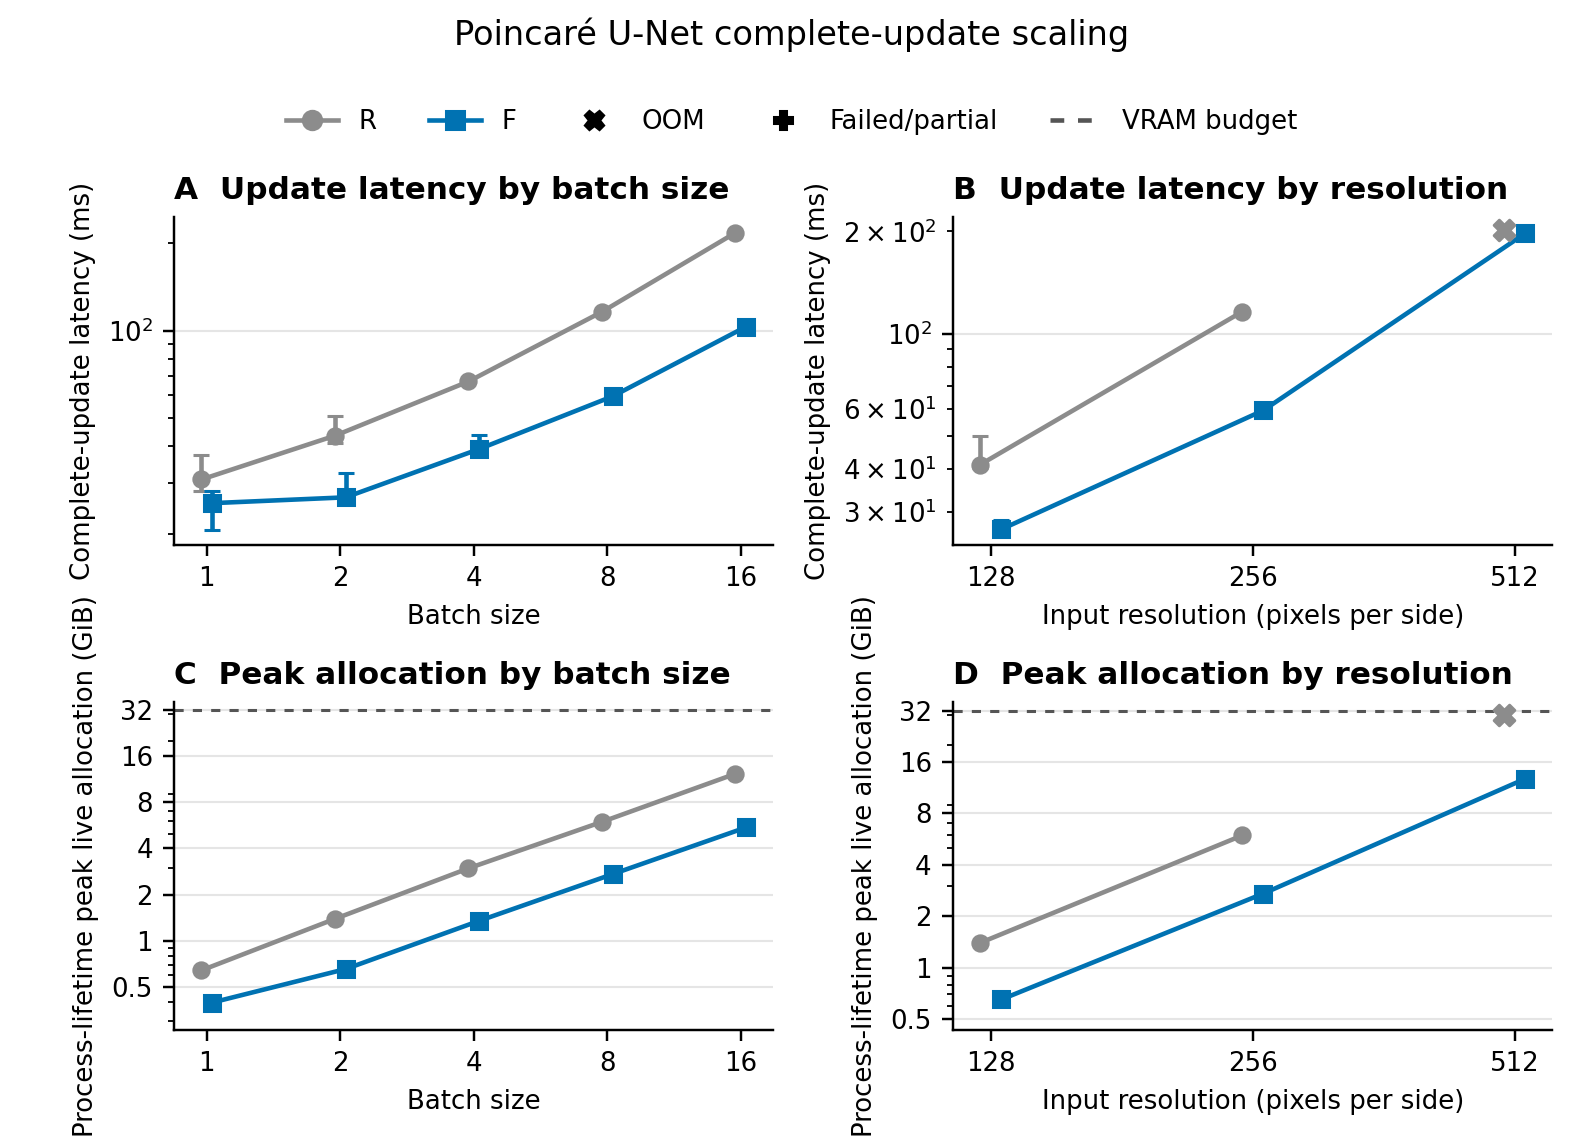
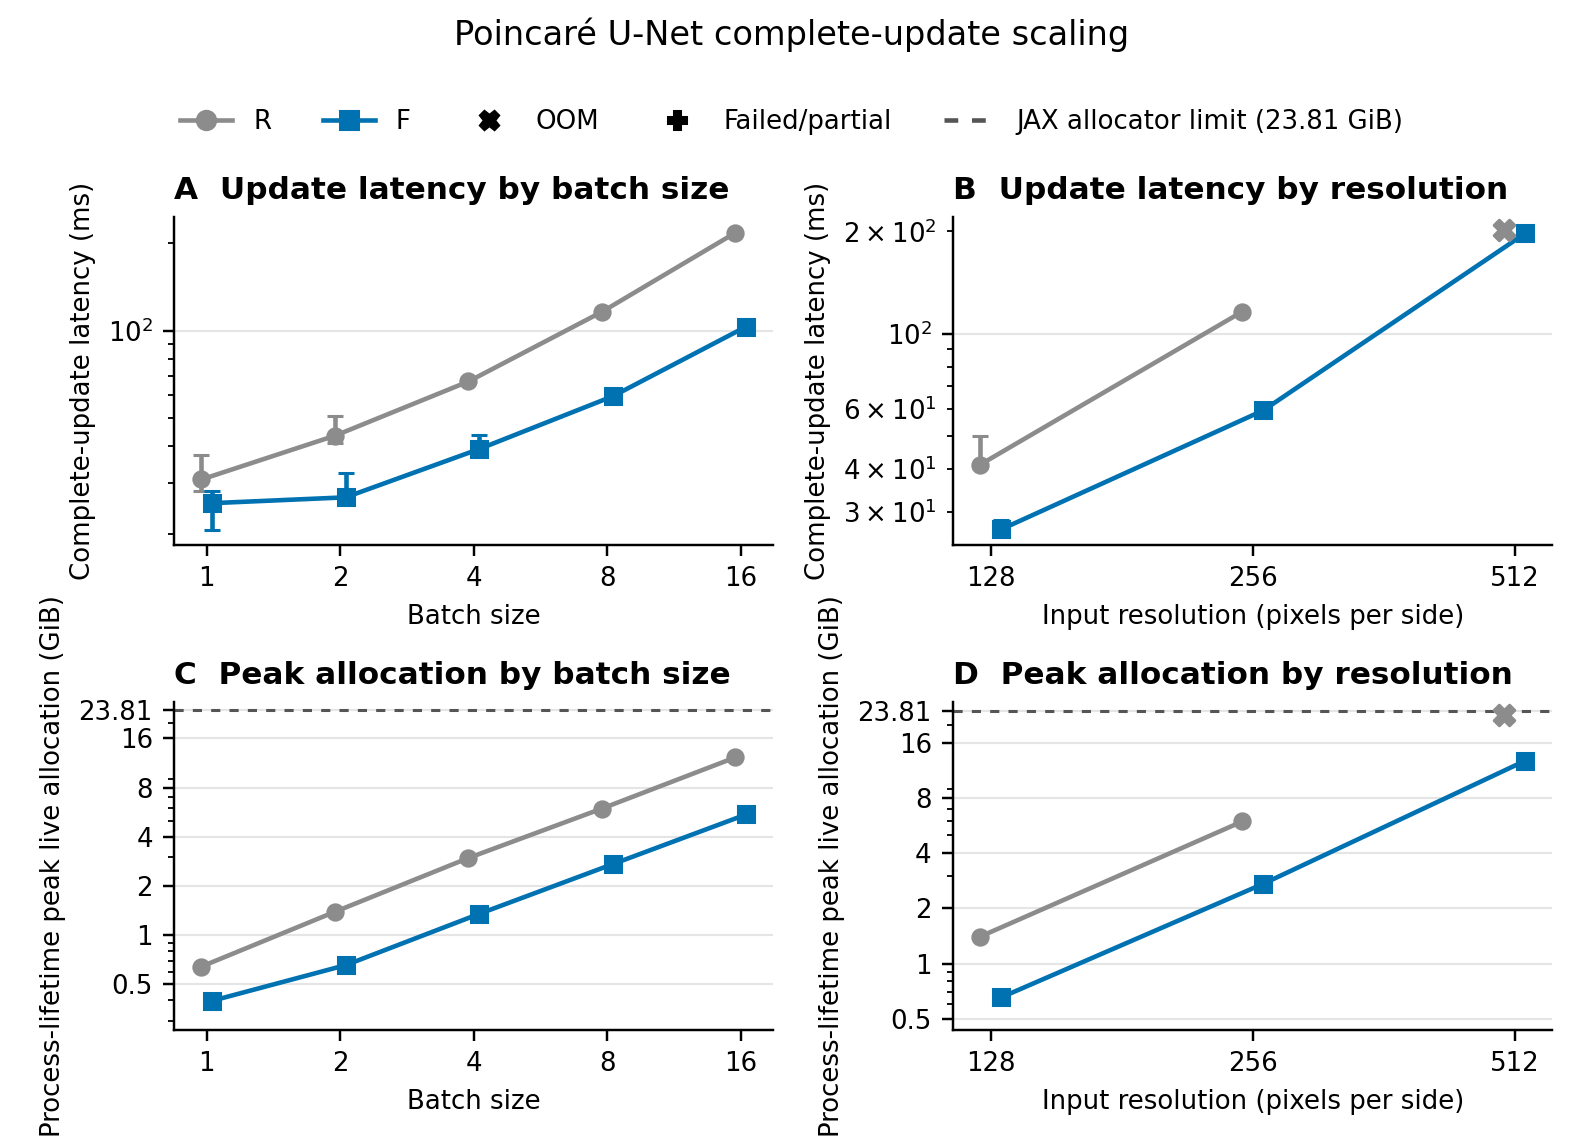
Scope E13 memory reporting to allocator limit

Changed region(s): [[0.0309, 0.5201, 0.9899, 1.0], [0.1237, 0.0918, 0.8971, 0.1224]]

diff --git a/src/poincare_exec/analysis/scaling.py b/src/poincare_exec/analysis/scaling.py
@@ -167,6 +167,7 @@ def _validate_manifest(manifest: Mapping[str, Any]) -> dict[str, dict[str, Any]]
             "sessions",
             "timed_calls_per_session",
             "memory_budget_bytes",
+            "allocator_limit_evidence",
             "precision_contract",
             "protocol_document",
             "benchmark_config",
@@ -254,6 +255,50 @@ def _validate_manifest(manifest: Mapping[str, Any]) -> dict[str, dict[str, Any]]
     if len(workloads) != 7 or observed_shapes != _E13_SHAPES:
         raise ValueError("workloads must be the seven unique shapes in the E13 R/F grid")
     return workloads
+
+
+def _allocator_limit_reference(manifest: Mapping[str, Any]) -> dict[str, Any]:
+    """Validate and return the captured JAX allocator ceiling used in the plot."""
+
+    relative, sha256 = validate_hashed_document(
+        manifest, field="allocator_limit_evidence"
+    )
+    evidence_path = REPOSITORY_ROOT / relative
+    evidence = json.loads(evidence_path.read_text(encoding="utf-8"))
+    if not isinstance(evidence, Mapping):
+        raise ValueError("allocator limit evidence must be a JSON mapping")
+    hardware = evidence.get("hardware")
+    if not isinstance(hardware, Mapping):
+        raise ValueError("allocator limit evidence is missing hardware metadata")
+    allocator_limit_bytes = _optional_int(hardware.get("jax_allocator_bytes_limit"))
+    if allocator_limit_bytes is None or allocator_limit_bytes <= 0:
+        raise ValueError(
+            "allocator limit evidence must contain a positive "
+            "hardware.jax_allocator_bytes_limit"
+        )
+    physical_memory_mib = _optional_int(hardware.get("accelerator_memory_mib"))
+    if physical_memory_mib is None or physical_memory_mib <= 0:
+        raise ValueError(
+            "allocator limit evidence must contain positive "
+            "hardware.accelerator_memory_mib"
+        )
+    nominal_budget_bytes = int(manifest["memory_budget_bytes"])
+    if physical_memory_mib * 1024**2 != nominal_budget_bytes:
+        raise ValueError(
+            "captured physical memory disagrees with the frozen E13 memory budget"
+        )
+    if allocator_limit_bytes > nominal_budget_bytes:
+        raise ValueError("captured allocator limit exceeds physical device memory")
+    return {
+        "kind": "captured_jax_allocator_limit",
+        "bytes": allocator_limit_bytes,
+        "gib": allocator_limit_bytes / 1024**3,
+        "environment_field": "hardware.jax_allocator_bytes_limit",
+        "evidence_path": relative,
+        "evidence_sha256": sha256,
+        "physical_device_memory_bytes": nominal_budget_bytes,
+        "physical_device_memory_gib": nominal_budget_bytes / 1024**3,
+    }
 
 
 def _provenance_contract(
@@ -966,7 +1011,7 @@ def _plot_panel(
     workloads: Mapping[str, Mapping[str, Any]],
     summaries: Mapping[tuple[str, str], Mapping[str, Any]],
     variants: Sequence[str],
-    memory_budget_gib: float,
+    allocator_limit_gib: float,
 ) -> None:
     selected = [item for item in workloads.values() if panel in item["panels"]]
     field = "batch" if panel == "batch" else "resolution"
@@ -1051,22 +1096,28 @@ def _plot_panel(
         axis.set_ylabel("Process-lifetime peak live allocation (GiB)")
         axis.set_yscale("log")
         axis.axhline(
-            memory_budget_gib,
+            allocator_limit_gib,
             color="#555555",
             linestyle=(0, (3, 3)),
             linewidth=1,
-            label="VRAM budget",
+            label=f"JAX allocator limit ({allocator_limit_gib:.2f} GiB)",
         )
         positive_minimum = min(panel_metric_values) if panel_metric_values else 0.25
         positive_maximum = max(panel_metric_values) if panel_metric_values else 1.0
         axis.set_ylim(
             bottom=max(positive_minimum / 1.5, 0.05),
-            top=max(memory_budget_gib * 1.12, positive_maximum * 1.4),
+            top=max(allocator_limit_gib * 1.12, positive_maximum * 1.4),
         )
-        tick_candidates = (0.25, 0.5, 1, 2, 4, 8, 16, 32)
+        tick_candidates = (0.25, 0.5, 1, 2, 4, 8, 16, allocator_limit_gib)
         lower, upper = axis.get_ylim()
         ticks = [value for value in tick_candidates if lower <= value <= upper]
-        axis.set_yticks(ticks, [f"{value:g}" for value in ticks])
+        tick_labels = [
+            f"{value:.2f}"
+            if math.isclose(value, allocator_limit_gib)
+            else f"{value:g}"
+            for value in ticks
+        ]
+        axis.set_yticks(ticks, tick_labels)
 
 
 def plot_scaling_figure(
@@ -1075,6 +1126,7 @@ def plot_scaling_figure(
     workload_rows: Sequence[Mapping[str, Any]],
     manifest: Mapping[str, Any],
     workloads: Mapping[str, Mapping[str, Any]],
+    allocator_limit_bytes: int,
 ) -> tuple[Path, Path]:
     """Write the latency/memory by batch/resolution four-panel figure."""
 
@@ -1082,7 +1134,7 @@ def plot_scaling_figure(
         (str(row["workload_id"]), str(row["variant"])): row for row in workload_rows
     }
     variants = [str(value) for value in manifest["variants"]]
-    memory_budget_gib = int(manifest["memory_budget_bytes"]) / 1024**3
+    allocator_limit_gib = allocator_limit_bytes / 1024**3
     plt.rcParams.update(
         {
             "font.family": "DejaVu Sans",
@@ -1116,7 +1168,7 @@ def plot_scaling_figure(
             workloads=workloads,
             summaries=summaries,
             variants=variants,
-            memory_budget_gib=memory_budget_gib,
+            allocator_limit_gib=allocator_limit_gib,
         )
         axis.set_title(title, loc="left", fontweight="bold")
     handles = [
@@ -1140,7 +1192,7 @@ def plot_scaling_figure(
                 [],
                 color="#555555",
                 linestyle=(0, (3, 3)),
-                label="VRAM budget",
+                label=f"JAX allocator limit ({allocator_limit_gib:.2f} GiB)",
             ),
         ]
     )
@@ -1184,6 +1236,7 @@ def export_scaling_campaign(
     manifest_file = Path(manifest_path).expanduser().resolve()
     manifest = load_yaml(manifest_file)
     workloads = _validate_manifest(manifest)
+    allocator_reference = _allocator_limit_reference(manifest)
     provenance = _provenance_contract(manifest, workloads)
     records, sources = load_raw_records(raw_paths)
     identity = _validate_records(records, manifest, workloads, provenance)
@@ -1240,6 +1293,7 @@ def export_scaling_campaign(
         workload_rows=workload_rows,
         manifest=manifest,
         workloads=workloads,
+        allocator_limit_bytes=int(allocator_reference["bytes"]),
     )
     outcome_counts: dict[str, int] = defaultdict(int)
     for row in session_rows:
@@ -1262,6 +1316,7 @@ def export_scaling_campaign(
         "paired_rows": len(paired_rows),
         "statistical_method": manifest.get("statistical_method"),
         "memory_scope": manifest.get("memory_scope"),
+        "memory_reference": allocator_reference,
         "outputs": {
             name: {"path": str(path), "sha256": _sha256(path)}
             for name, path in {

diff --git a/tests/test_config_validation.py b/tests/test_config_validation.py
@@ -94,8 +94,14 @@ def test_e13_analysis_uses_the_frozen_protocol_snapshot() -> None:
         manifest, field="protocol_document"
     )
     benchmark_path, _ = validate_hashed_document(manifest, field="benchmark_config")
+    allocator_path, allocator_digest = validate_hashed_document(
+        manifest, field="allocator_limit_evidence"
+    )
     protocol = load_yaml(REPOSITORY_ROOT / protocol_path)
     benchmark = load_yaml(REPOSITORY_ROOT / benchmark_path)
+    environment = json.loads(
+        (REPOSITORY_ROOT / allocator_path).read_text(encoding="utf-8")
+    )
     accepted_summary = json.loads(
         (REPOSITORY_ROOT / "results" / "e13_scaling" / "summary.json").read_text(
             encoding="utf-8"
@@ -107,6 +113,12 @@ def test_e13_analysis_uses_the_frozen_protocol_snapshot() -> None:
[1 lines of base64/hex data omitted]
     )
     assert protocol["protocol_version"] == "1.11"
+    assert allocator_path == "results/environment.json"
+    assert allocator_digest == (
[1 lines of base64/hex data omitted]
+    )
+    assert environment["hardware"]["jax_allocator_bytes_limit"] == 25_567_444_992
+    assert accepted_summary["memory_reference"]["bytes"] == 25_567_444_992
     assert {
         workload["id"]: config_hash(protocol, benchmark, workload)
         for workload in benchmark["workloads"]

diff --git a/tests/test_scaling_analysis.py b/tests/test_scaling_analysis.py
@@ -187,6 +187,18 @@ def test_export_preserves_oom_and_pairs_only_successful_sessions(tmp_path):
     )
     assert summary["provenance_contract"]["protocol_version"] == "1.11"
     assert summary["validated_identity"]["physical_gpu_uuid"] == GPU_UUID
+    assert summary["memory_reference"] == {
+        "kind": "captured_jax_allocator_limit",
+        "bytes": 25_567_444_992,
+        "gib": 25_567_444_992 / 1024**3,
+        "environment_field": "hardware.jax_allocator_bytes_limit",
+        "evidence_path": "results/environment.json",
+        "evidence_sha256": (
[1 lines of base64/hex data omitted]
+        ),
+        "physical_device_memory_bytes": 32 * 1024**3,
+        "physical_device_memory_gib": 32.0,
+    }
     assert len(summary["validated_identity"]["device_id_encodings"]) == 2
     assert len(summary["validated_identity"]["precision_policy_encodings"]) == 2
     with (output_dir / "session_outcomes.csv").open(

diff --git a/results/README.md b/results/README.md
@@ -10,7 +10,7 @@ Verify the bundle with `sha256sum --check SHA256SUMS` in this directory.
 | `numerics/` | E02 | bounded repair suite summary, structured agreement overview and the 33 T failures, finite-difference sweeps, exact rows quoted in the appendix |
 | `operators/` | E03, E05 | per-session medians, paired speedups with 95% log-t intervals, latency summary |
 | `unet_timing/` | E08 | per-session medians, paired speedups, latency and peak-memory summary, manuscript timing table |
-| `e13_scaling/` | E13 | all 70 planned session/path outcomes, workload and paired-ratio summaries, and the complete-update scaling/capacity figure |
+| `e13_scaling/` | E13 | all 70 planned session/path outcomes, workload and paired-ratio summaries, and the complete-update scaling and allocator-bounded feasibility figure |
 | `profile/` | E11 | module spans, kernel counts, kernel-category attribution |
 | `training/` | E09, E10 | all 30 runs and endpoints, per-path summaries, paired quality/IoU/efficiency intervals, Figure 2 and the all-endpoints figure |
 | `checkpoints/` | E06 (supporting, not in the manuscript) | replay audit, task agreement, aggregate, and the inventory of archived checkpoints |
@@ -25,7 +25,7 @@ Verify the bundle with `sha256sum --check SHA256SUMS` in this directory.
 | Structured agreement table and appendix worst rows | `numerics/structured_agreement_overview.csv`, `numerics/structured_agreement_failures.csv`, `numerics/numerical_claim_rows.csv`, `numerics/bounded_check_summary.csv` |
 | Operator and block speedups | `operators/paired_speedup_summary.csv`, `operators/workload_latency_summary.csv` |
 | Complete U-Net latency and peak memory | `unet_timing/paper_timing_table.csv`, `unet_timing/paired_speedup_summary.csv`, `unet_timing/workload_latency_memory_summary.csv` |
-| Complete U-Net update scaling and capacity | `e13_scaling/paired_ratio_summary.csv`, `e13_scaling/workload_summary.csv`, `e13_scaling/session_outcomes.csv`, `e13_scaling/unet_scaling.{pdf,png}` |
+| Complete U-Net update scaling and allocator-bounded feasibility | `e13_scaling/paired_ratio_summary.csv`, `e13_scaling/workload_summary.csv`, `e13_scaling/session_outcomes.csv`, `e13_scaling/unet_scaling.{pdf,png}` |
 | U-Net update profile | `profile/profile_summary.csv`, `profile/kernel_category_attribution.csv` |
 | Five-seed training outcomes and speedups | `training/training_variant_summary.csv`, `training/paired_quality_summary.csv`, `training/paired_training_efficiency_summary.csv`, `training/paired_iou_summary.csv`, `training/training_runs.csv` |
 | Figure 2 (runtime and fixed-final quality) | `training/training_efficiency_quality.{pdf,png,svg}`, regenerated by `scripts/plot_training_efficiency_quality.py` |

diff --git a/docs/e13_scaling_analysis.md b/docs/e13_scaling_analysis.md
@@ -7,6 +7,14 @@ and 30 of 35 R groups completed, while all five R groups at batch 8 and
 512 x 512 ended in recorded first-update OOMs. The corresponding five F groups
 completed.
 
+The V100 has 32 GiB of physical memory, but the accepted environment capture
+records a JAX allocator limit of 25,567,444,992 bytes (23.81 GiB). The figure's
+dashed memory reference is this captured allocator limit, not nominal device
+memory. The R failure diagnostic reports a 23.01-GiB compiled allocation under
+that allocator configuration; it does not show that all 32 GiB of physical
+memory were exhausted. The analysis manifest hash-pins the environment record
+from which the plotting reference is read.
+
 ## Registered analysis grid
 
 The grid in `configs/analysis/e13_unet_scaling.yaml` contains seven distinct
@@ -24,8 +32,9 @@ the byte-exact protocol 1.11 snapshot at
 `configs/benchmarks/e13_unet_scaling.yaml` by SHA-256. The exporter recomputes
 every expected per-workload configuration hash from those two pinned documents.
 At the recorded E13 code revision, the same protocol bytes were at top-level
-`protocol.yaml`; `results/e13_scaling/summary.json` retains that historical
-path, while the versioned snapshot permits validation after later amendments.
+`protocol.yaml`. The regenerated CPU-only analysis summary records the
+versioned snapshot path and the same byte hash, permitting validation after
+later amendments without changing the accepted experiment identity.
 
 ## Accepted raw formats and identities
 
@@ -74,7 +83,7 @@ The exporter refuses to overwrite an existing output. It writes:
 - `paired_ratio_summary.csv`: paired R/F latency and peak-allocation ratios
   using only sessions in which both paths succeeded;
 - `unet_scaling.pdf` and `.png`: a four-panel batch/resolution latency/memory
-  figure; and
+  figure whose dashed line is the captured 23.81-GiB JAX allocator limit; and
 - `summary.json`: source hashes, validated identities, output hashes, and
   outcome counts.
 

diff --git a/README.md b/README.md
@@ -227,6 +227,13 @@ running state, so evaluation always uses manifest order and the declared
 batch size. A nonfinite value, out-of-memory, or divergence is a result and
 is never replaced.
 
+For E13, the accelerator has 32 GiB of physical memory, while the accepted
+environment record captures a 25,567,444,992-byte (23.81-GiB) JAX allocator
+limit. The scaling figure uses that captured allocator ceiling rather than a
+nominal 32-GiB line; its R out-of-memory outcome is therefore specific to the
+recorded allocator configuration and does not imply exhaustion of all physical
+device memory.
+
 Rebuilding the compact tables from the raw outputs of a new run:
 
 For the E20/E21 exporter, set `E09_ROOT`, `E10_ROOT`, `E20_ROOT`, and
